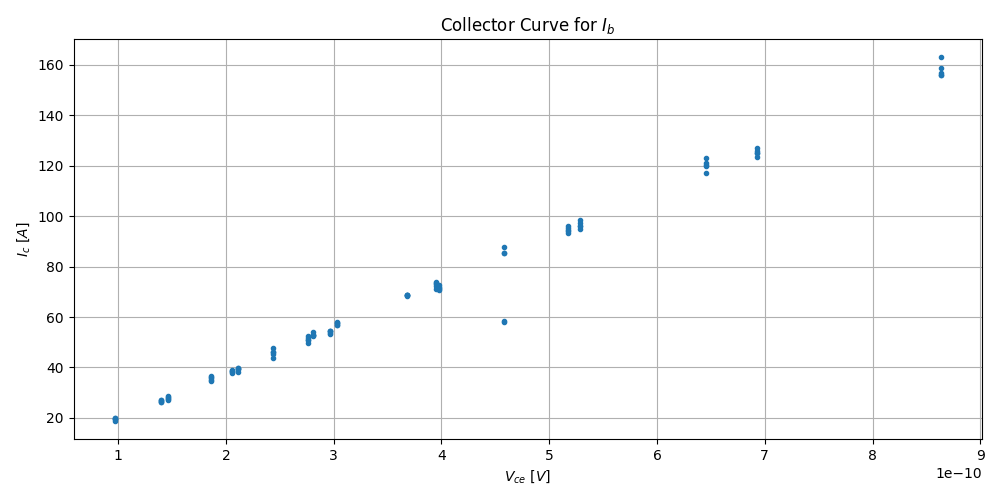
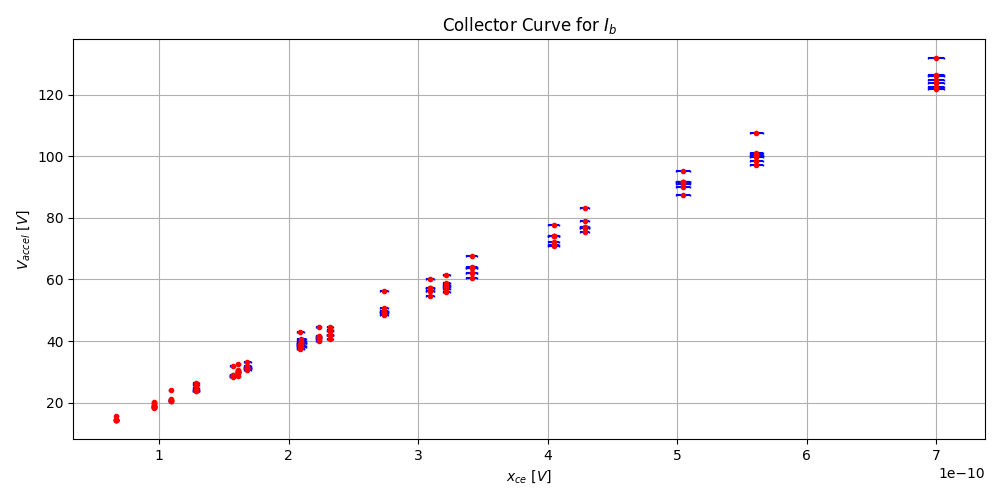
Fixed data errors

diff --git a/lab1.py b/lab1.py
@@ -6,20 +6,37 @@ import matplotlib.pyplot as plt
 import pandas as pd
 
 df = pd.read_csv("lab1.csv")
-df = df[df["Direction"] == " P"]
-R = df["R"]
-I = df["I"]
-I_e = df["I_e"]
-V = df["V"]
-V_e = df["V_e"]
+df = df[df["Direction"] == " A"]
+df_A = df[df["Direction"] == " A"]
+df_P = df[df["Direction"] == " P"]
 
-print(df)
+R = df["R"]
+R_A = df_A["R"]
+R_P = df_P["R"]
+
+I = df["I"]
+I_A = df_A["I"]
+I_P = df_P["I"]
+
+I_e = df["I_e"]
+I_e_A = df_A["I_e"]
+I_e_P = df_P["I_e"]
+
+V = df["V"]
+V_A = df_A["V"]
+V_P = df_P["V"]
+
+V_e = df["V_e"]
+V_e_A = df_A["V_e"]
+V_e_P = df_P["V_e"]
 
 N = 72 # Coils
 a = 0.33 # Radius of coil
-Be = 36.11e-6 # [T]
+Be = -36.11e-6 # [T]
+Be_e = 2e-6
 Bh = (8*c.mu_0*N*I)/((125)**(1/2)*a)
 x = (R**2*(Be + Bh)**2)/2
+x_e = (   (I_e**2)*(R**2*(Bh/I)*(Bh+Be))**2 + (Be_e**2)*(R**2*(Bh+Be))**2   )**(1/2)
 e_m = V/x
 e_m_actual = 1.758820e11
 error = (e_m - e_m_actual)/e_m_actual
@@ -27,13 +44,13 @@ error = (e_m - e_m_actual)/e_m_actual
 print(e_m, error)
 
 plt.figure(figsize=(10,5))
-plt.plot(x, V, ".")
-#plt.errorbar(x, V, I_e, I_e, "r-o", ecolor="blue", capsize=10)
+#plt.plot(x, V, ".")
+plt.errorbar(x, V, V_e, x_e, ".r", ecolor="blue", capsize=1)
 #plt.xscale("log")
 #plt.yscale("log")
 plt.title("Collector Curve for $I_b$")
-plt.xlabel("$V_{ce}~[V]$")
-plt.ylabel("$I_{c}~[A]$")
+plt.xlabel("$x_{ce}~[V]$")
+plt.ylabel("$V_{accel}~[V]$")
 plt.grid()
 plt.tight_layout()
 plt.savefig("lab1_1")
